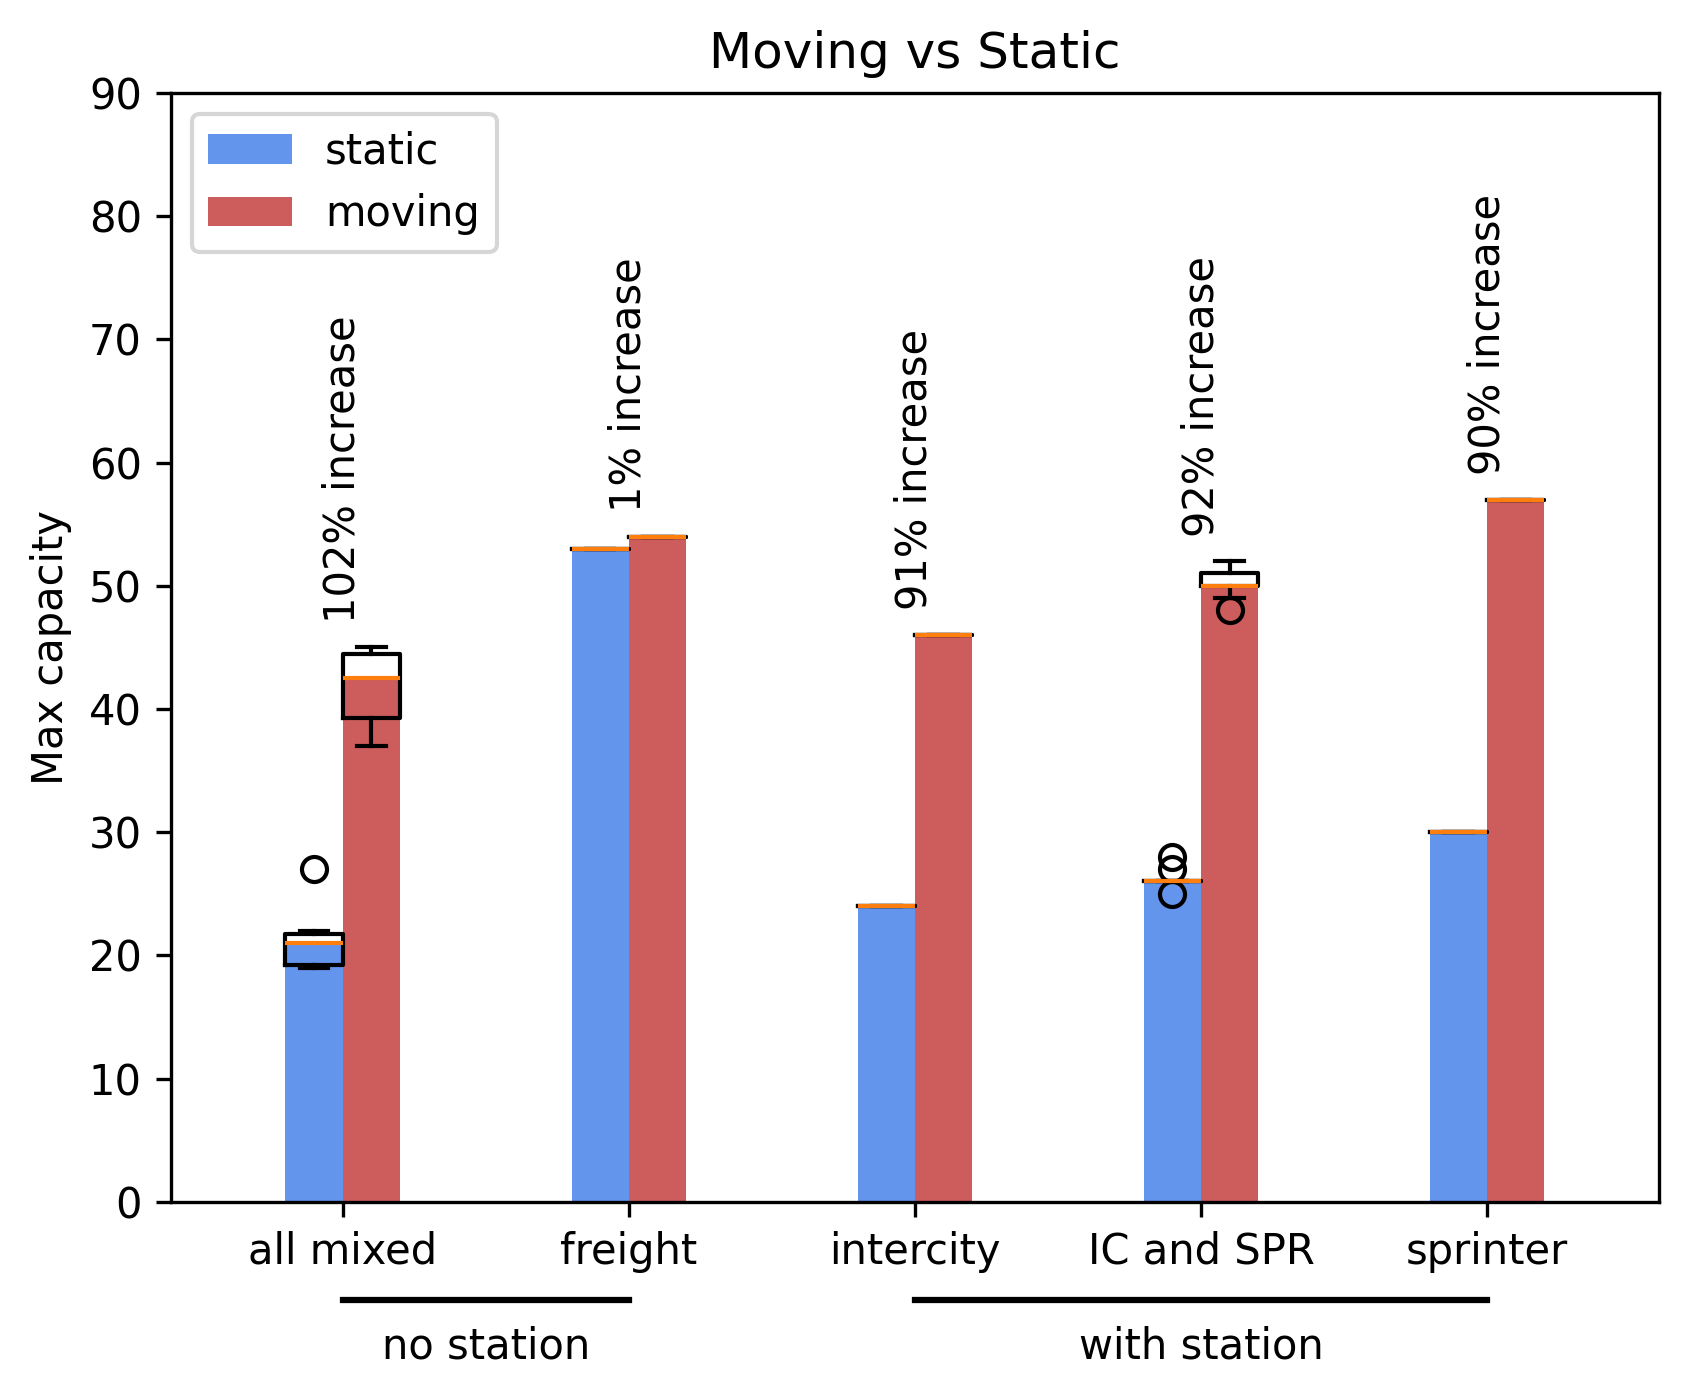
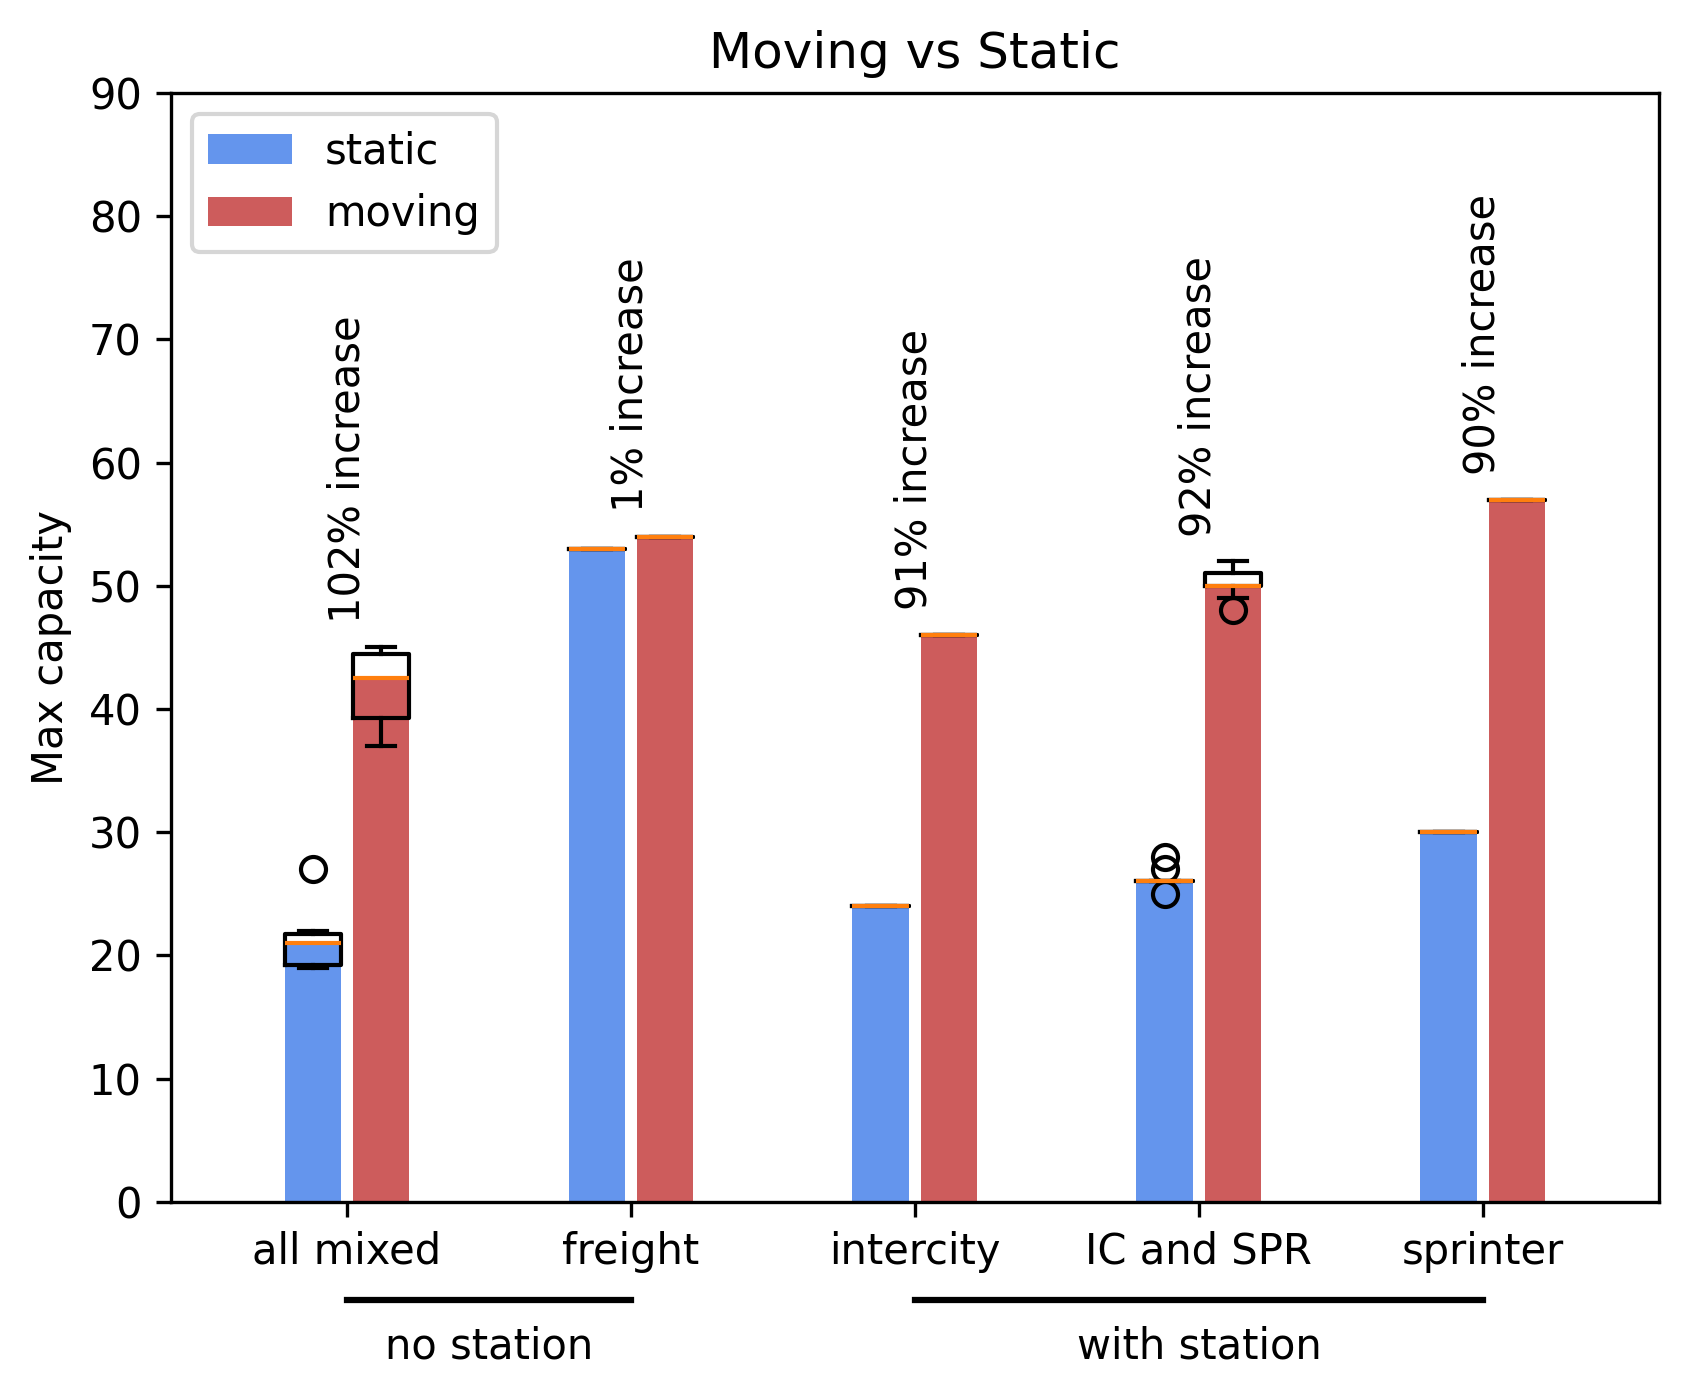
In group spacing added

diff --git a/analysis/generateGraphFromData.py b/analysis/generateGraphFromData.py
@@ -23,7 +23,7 @@ for experiment in groups:
 
 
 width = 0.2
-in_group_spacing = 0.1
+in_group_spacing = 0.12
 group_spacing = 0.8
 center_x = np.arange(len(groups))
 bar_right_x = center_x+in_group_spacing
